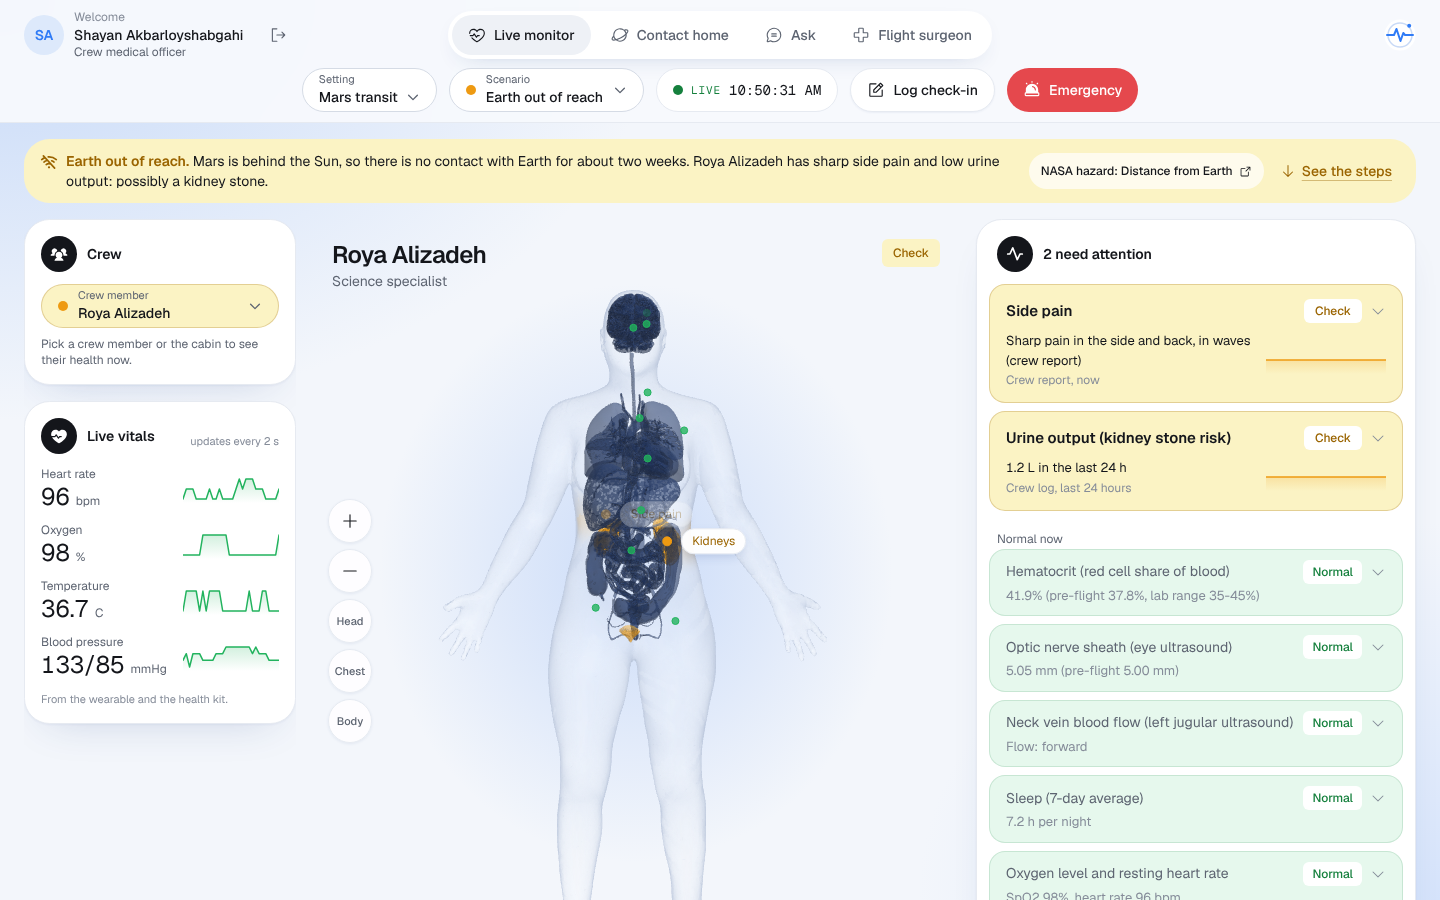
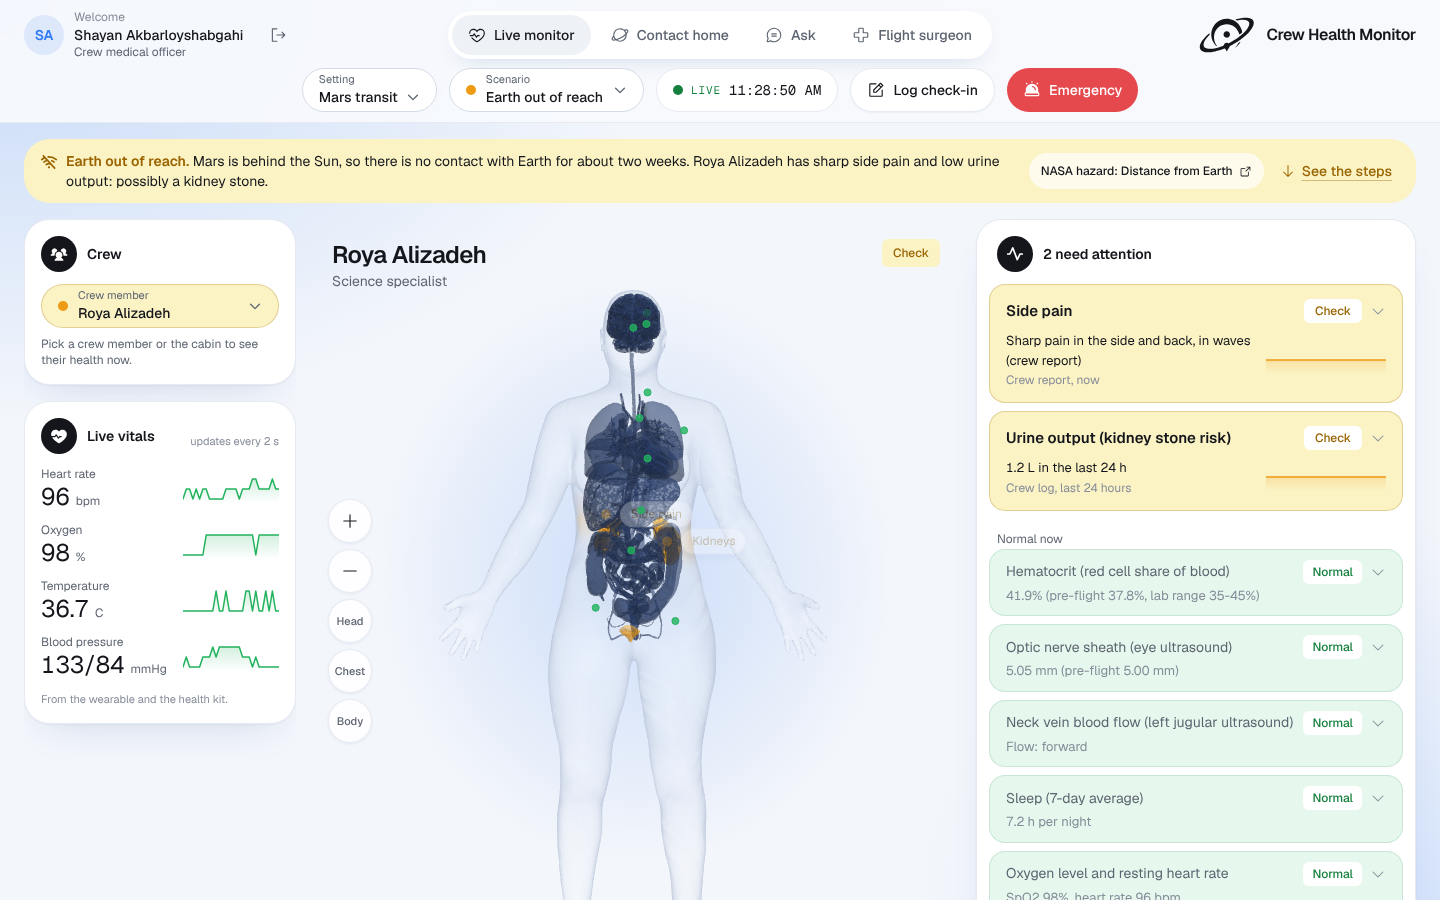
made it cleaner

diff --git a/src/ui.tsx b/src/ui.tsx
@@ -14,14 +14,14 @@ const LEVEL_CHIP: Record<Level, string> = {
 }
 export const LEVEL_LINE: Record<Level, string> = { green: '#22B35E', amber: '#EE9A12', red: '#EC4253' }
 
-/** Product mark: an orbit ring with a pulse line through it. Our own mark, not NASA's. */
-export function Logo() {
+/** The Crew Health Monitor logo: a planet with an orbit ring and a pin. Drawn in the text colour. */
+export const LOGO_PATH =
+  'M14.2 62.8C-3.9 61.9 -2.7 46.8 16.9 30.1C19 28.3 18.9 28.3 18.9 30.3C18.8 32 19 31.7 17.2 33.5C7.9 42.8 5.5 50.9 11 54.6C16.3 58 28.1 56.8 42.3 51.4C44.2 50.7 44.1 50.7 44.3 49.9C45.3 46.5 48.6 45 51.8 46.5C52.5 46.9 52.5 46.9 54 46.1C76.7 34.5 92.4 18 88.9 9.4C87.3 5.4 81.4 4 72.4 5.4C71.7 5.4 71 5.6 70.7 5.6C69.2 5.9 67.9 6.2 67.7 6.2C67.4 6.2 67.3 6.1 65.3 4.8C64.7 4.4 64.9 4.3 67.5 3.6C75.2 1.7 80.4 1.1 85.3 1.3C94.1 1.9 98.3 5.8 97.2 12.4C96.1 19.2 88.9 28.5 78 37.1C76.3 38.4 74.9 39.5 74 40.1C73.5 40.5 72.7 41.1 72.2 41.4C67.3 44.9 62.3 47.9 55.2 51.6C54.6 51.9 54.6 51.9 54.3 52.7C54.1 53.4 53.7 54.1 53.1 55.1C52.5 56 51 58.4 50.4 59.4C49.4 61.2 49.4 61.2 48.1 58.9C47.3 57.6 46.4 56.2 46.2 56.1C45.9 55.9 45.8 55.9 44.2 56.5C42.1 57.4 38.7 58.5 36.2 59.3C34.5 59.9 30.9 60.8 29.1 61.2C28.7 61.3 28 61.5 27.7 61.5C26.3 61.8 24.4 62.2 22 62.5C20.1 62.8 16.1 62.9 14.2 62.8ZM64.2 54.6C64.2 54.5 64.6 54.1 65 53.7C67.1 51.4 68.2 49.8 69.3 47.7C70 46.4 70.2 46.2 70.7 45.9C70.9 45.7 71.5 45.3 72.1 44.9C73.9 43.6 74 43.7 73.1 45.3C71.5 48.1 68.9 51 66.1 53.3C65 54.2 64 54.9 64.2 54.6ZM31 51.8C29.9 51.2 26.8 47.3 25.3 44.6C17.2 30.1 23.6 11.7 38.8 5.3C50.4 0.4 63.8 4.1 71.5 14.2C73.9 17.4 76.7 24.1 76.7 26.9C76.7 27.3 75.9 28.1 73.1 30.4C71.6 31.6 71.7 31.6 71.4 30.1C69.7 23.3 64.4 17.1 58 14.6C44.6 9.2 30 17.1 27.2 31.2C25.7 38.1 27.5 46.1 31.6 50.9C32 51.4 32.1 51.6 31.9 51.7C31.7 51.9 31.2 51.9 31 51.8ZM48.3 36.6C44.1 35.7 42.2 30.9 44.8 27.5C48.1 23.1 55.1 25.4 55.1 30.9C55.1 34.6 51.8 37.4 48.3 36.6Z'
+
+export function Logo({ size = 34, className = '' }: { size?: number; className?: string }) {
   return (
-    <svg viewBox="0 0 32 32" width="32" height="32" role="img" aria-label="Crew Health Monitor">
-      <circle cx="16" cy="16" r="15.5" fill="#FFFFFF" />
-      <circle cx="16" cy="16" r="12" fill="none" stroke="#C9DAF6" strokeWidth="1.5" />
-      <path d="M3 16h7l2.5-6 4 12 2.8-8 1.7 2H29" fill="none" stroke="#2F7BF6" strokeWidth="2" strokeLinecap="round" strokeLinejoin="round" />
-      <circle cx="25.2" cy="6.8" r="2" fill="#2F7BF6" />
+    <svg viewBox="0 0 98.5 64" height={size} width={(size * 98.5) / 64} role="img" aria-label="Crew Health Monitor" className={`shrink-0 ${className}`}>
+      <path fill="currentColor" fillRule="evenodd" d={LOGO_PATH} />
     </svg>
   )
 }

diff --git a/src/App.tsx b/src/App.tsx
@@ -292,7 +292,7 @@ export default function App() {
   return (
     <div className="min-h-[100dvh]">
       <header className="relative z-10 border-b border-line bg-bar/95 px-4 py-2.5 backdrop-blur-md sm:px-6 lg:sticky lg:top-0">
-        {/* Top row: the signed-in person left, the page menu in the middle, the logo right.
+        {/* Top row: the signed-in person left, the page menu in the middle, the logo and name right.
             On smaller screens the menu gets its own centered row under them. */}
         <div className="grid grid-cols-[1fr_auto] items-center gap-x-3 gap-y-2 min-[1140px]:grid-cols-[1fr_auto_1fr]">
           <div className="col-start-1 row-start-1 flex min-w-0 items-center gap-2.5 justify-self-start">
@@ -324,8 +324,8 @@ export default function App() {
           )}
 
           <div className="col-start-2 row-start-1 flex items-center gap-3 justify-self-end min-[1140px]:col-start-3">
-            <p className="hidden text-[15px] font-semibold tracking-tight 2xl:block">Crew Health Monitor</p>
-            <Logo />
+            <Logo size={36} />
+            <p className="hidden text-[16px] leading-tight font-semibold tracking-tight sm:block">Crew Health Monitor</p>
           </div>
         </div>
 

diff --git a/src/SignIn.tsx b/src/SignIn.tsx
@@ -7,7 +7,7 @@ import { EASE, Logo } from './ui'
 
 const ROLE_NOTE: Record<User['role'], string> = {
   crew: "Sees the whole crew's health",
-  cmo: "Sees every crew member's data",
+  cmo: "Sees the whole crew's health",
   surgeon: 'Sees only what the crew sends to Earth',
 }
 
@@ -34,8 +34,8 @@ export default function SignIn({ onDone }: { onDone: () => void }) {
   return (
     <div className="flex min-h-[100dvh] items-center justify-center px-4 py-10">
       <motion.div initial={{ opacity: 0, y: 12 }} animate={{ opacity: 1, y: 0 }} transition={{ duration: 0.4, ease: EASE }} className="w-full max-w-md">
-        <div className="flex items-center gap-3">
-          <Logo />
+        <div className="flex items-center gap-4">
+          <Logo size={52} />
           <div>
             <h1 className="text-xl font-semibold tracking-tight">Crew Health Monitor</h1>
             <p className="text-sm text-muted">Choose a person to see their health</p>

diff --git a/index.html b/index.html
@@ -4,6 +4,7 @@
     <meta charset="UTF-8" />
     <meta name="viewport" content="width=device-width, initial-scale=1.0" />
     <link rel="icon" type="image/svg+xml" href="/favicon.svg" />
+    <link rel="apple-touch-icon" href="/apple-touch-icon.png" />
     <title>Crew Health Monitor (simulated)</title>
   </head>
   <body>

diff --git a/PROGRESS.md b/PROGRESS.md
@@ -194,3 +194,8 @@ marked "demo only" are our wording. The database keeps test messages from develo
 - Live monitor: each signal row is a box filled with its status colour (green Normal, yellow Check, red Urgent), with a white status chip and a white "Do this next" box so they still stand out. The Crew dropdown box takes the chosen person's status colour.
 - Sign-in: crew accounts now say "Sees the whole crew's health" (crew view has been open since Session 17).
 - All README screenshots retaken.
+
+## Session 20 (2026-11-15)
+- New logo from Stephen's logo sheet (a planet with an orbit ring and a pin), traced to a vector path so it stays sharp at any size: in the header with the name "Crew Health Monitor", on the sign-in page, as the browser tab icon (white on a dark rounded square, `public/favicon.svg`), as the phone home-screen icon (`public/apple-touch-icon.png`) and at the top of the README (`docs/logo.svg`). The path is `LOGO_PATH` in `src/ui.tsx`.
+- Sign-in: every crew account says "Sees the whole crew's health".
+- README screenshots retaken with the new logo.

diff --git a/README.md b/README.md
@@ -1,3 +1,5 @@
+<img src="docs/logo.svg" alt="Crew Health Monitor logo: a planet with an orbit ring and a pin" width="110">
+
 # Crew Health Monitor
 
 Health monitoring for a crew that cannot call a doctor. Built for the NASA Space Apps Challenge 2026, "Create Health Monitoring Software for Astronauts on Space Missions".
